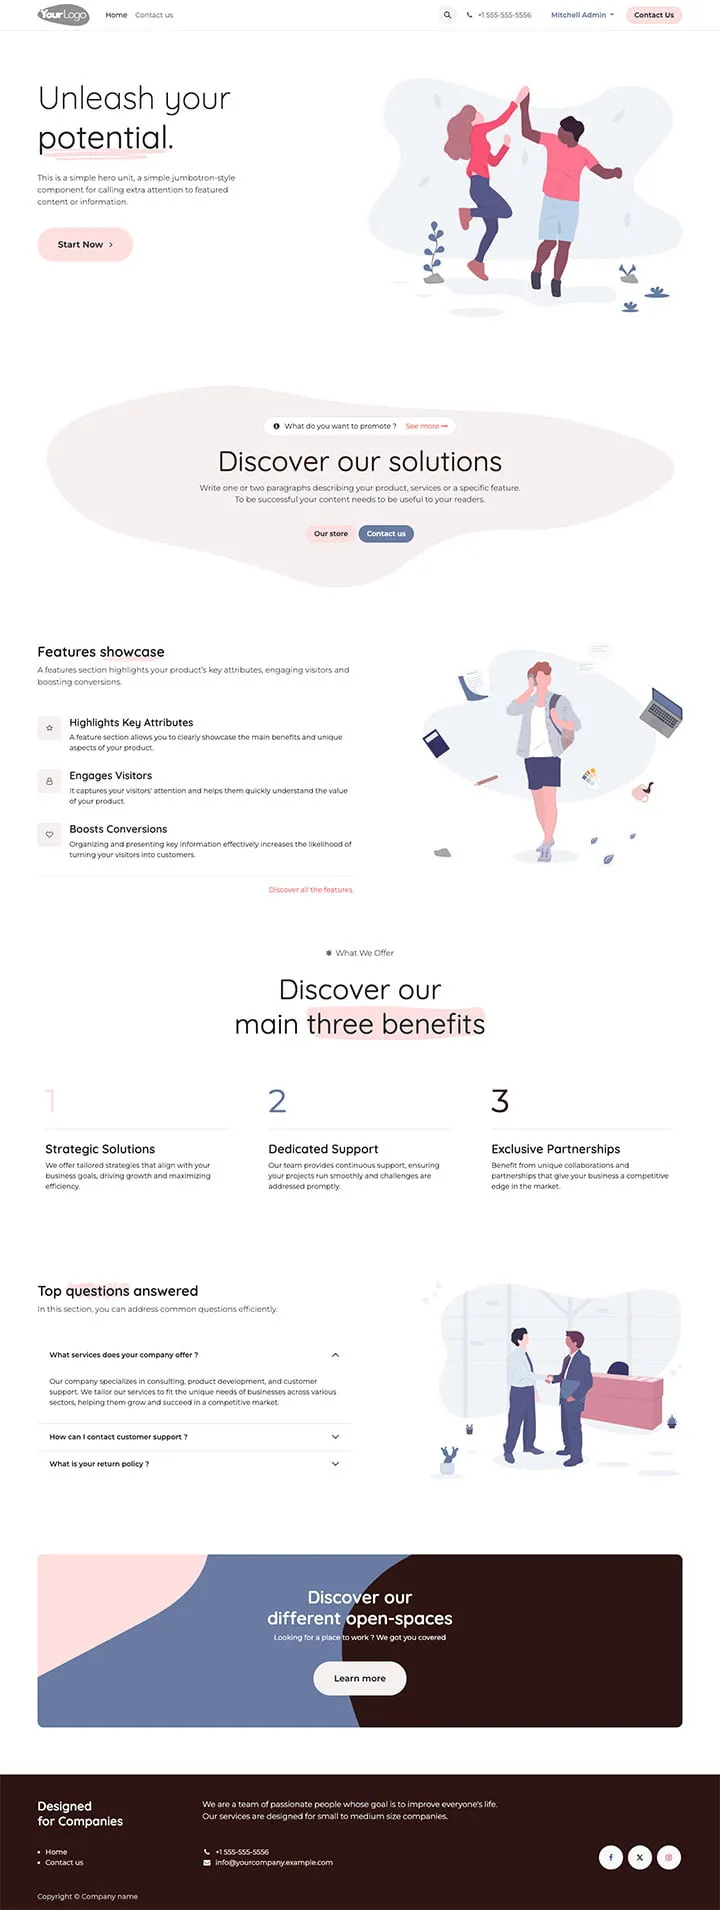
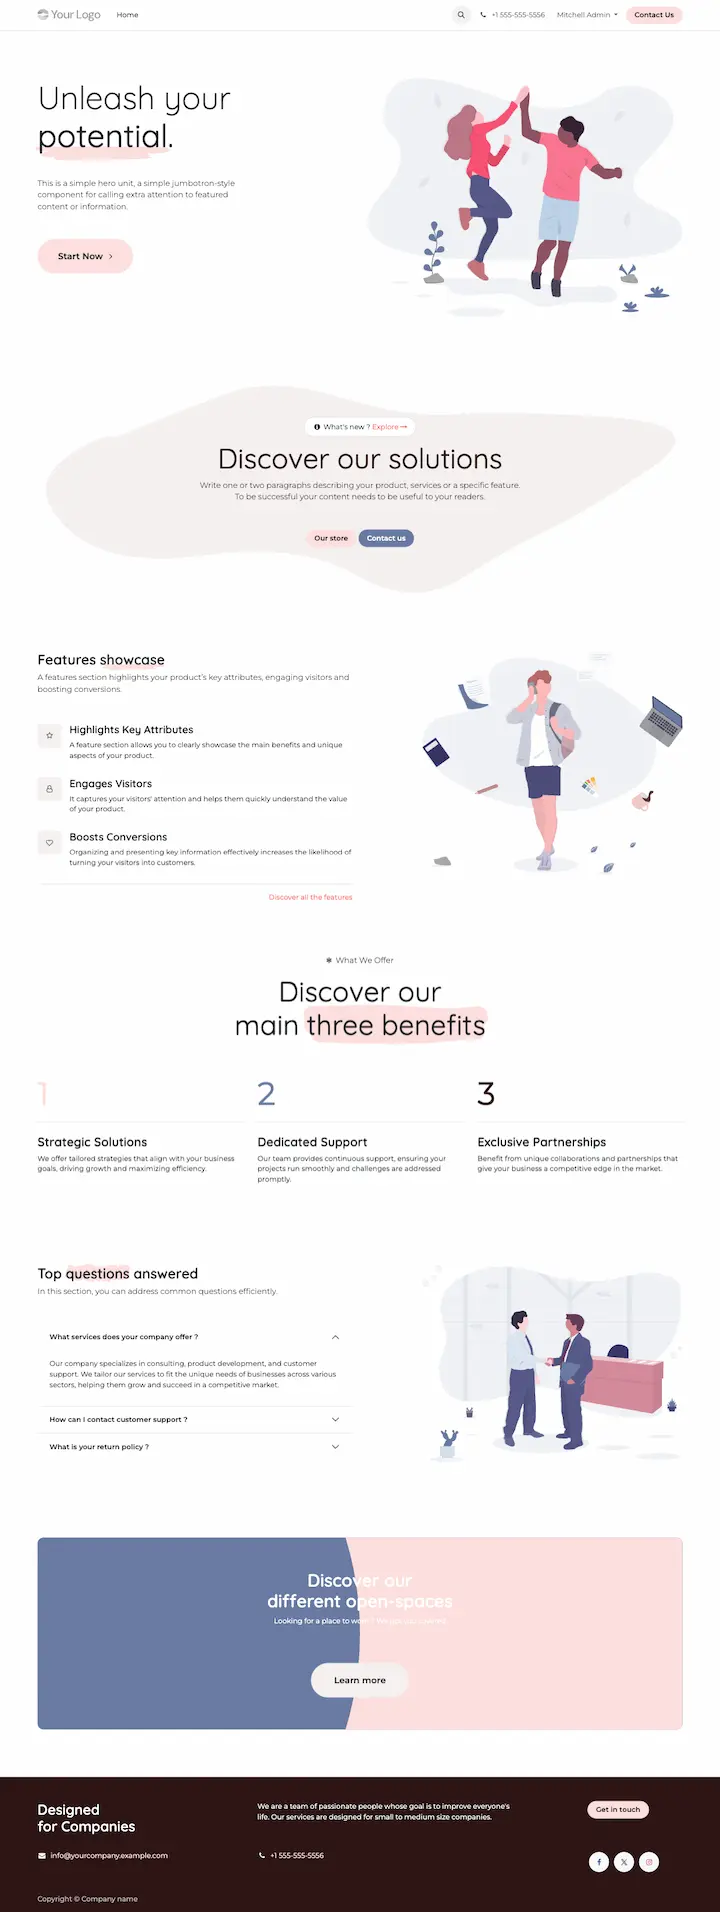
[IMP] themes_*: update themes screenshot
*: anelusia, artists, avantgarde, aviato, beauty, bewise, bistro,
bookstore, buzzy, clean, cobalt, enark, graphene, kea, kiddo, loftspace,
monglia, nano, notes, odoo_experts, orchid, paptic, real_estate,
treehouse, vehicle, yes, zap

This commit updates the themes screenshot to match the new images in
use. It also:

- fix minor issues with text effects due to missing CSS variables
- replace xpath with existing snippets
- re-add customizations that were removed while being needed

task-6326476

closes odoo/design-themes#1301

diff --git a/theme_paptic/static/src/js/tour.js b/theme_paptic/static/src/js/tour.js
@@ -9,7 +9,7 @@ const snippets = [
         groupName: "Intro",
     },
     {
-        id: 's_references',
+        id: 's_references_lite',
         name: 'References',
         groupName: "People",
     },

diff --git a/theme_paptic/__manifest__.py b/theme_paptic/__manifest__.py
@@ -17,7 +17,7 @@
         'static/description/paptic_screenshot.webp',
     ],
     'configurator_snippets': {
-        'homepage': ['s_cover', 's_references', 's_image_text', 's_text_image', 's_masonry_block_images_template', 's_faq_list', 's_cta_box'],
+        'homepage': ['s_cover', 's_references_lite', 's_image_text', 's_text_image', 's_masonry_block_images_template', 's_faq_list', 's_cta_box'],
     },
     'configurator_snippets_addons': {
         'website_sale': {

diff --git a/theme_vehicle/__manifest__.py b/theme_vehicle/__manifest__.py
@@ -13,8 +13,8 @@
         'views/customizations.xml',
     ],
     'images': [
-        'static/description/vehicle_description.png',
-        'static/description/vehicle_screenshot.png',
+        'static/description/vehicle_description.webp',
+        'static/description/vehicle_screenshot.webp',
     ],
     'images_preview_theme': {
         'website.s_cover_default_image': '/theme_vehicle/static/src/img/snippets/s_cover.webp',

diff --git a/theme_artists/__manifest__.py b/theme_artists/__manifest__.py
@@ -16,6 +16,7 @@
         'views/snippets/s_sidegrid.xml',
         'views/snippets/s_product_catalog.xml',
         'views/snippets/s_image_frame.xml',
+        'views/snippets/s_image_gallery.xml',
         'views/snippets/s_shape_image.xml',
     ],
     'images': [
